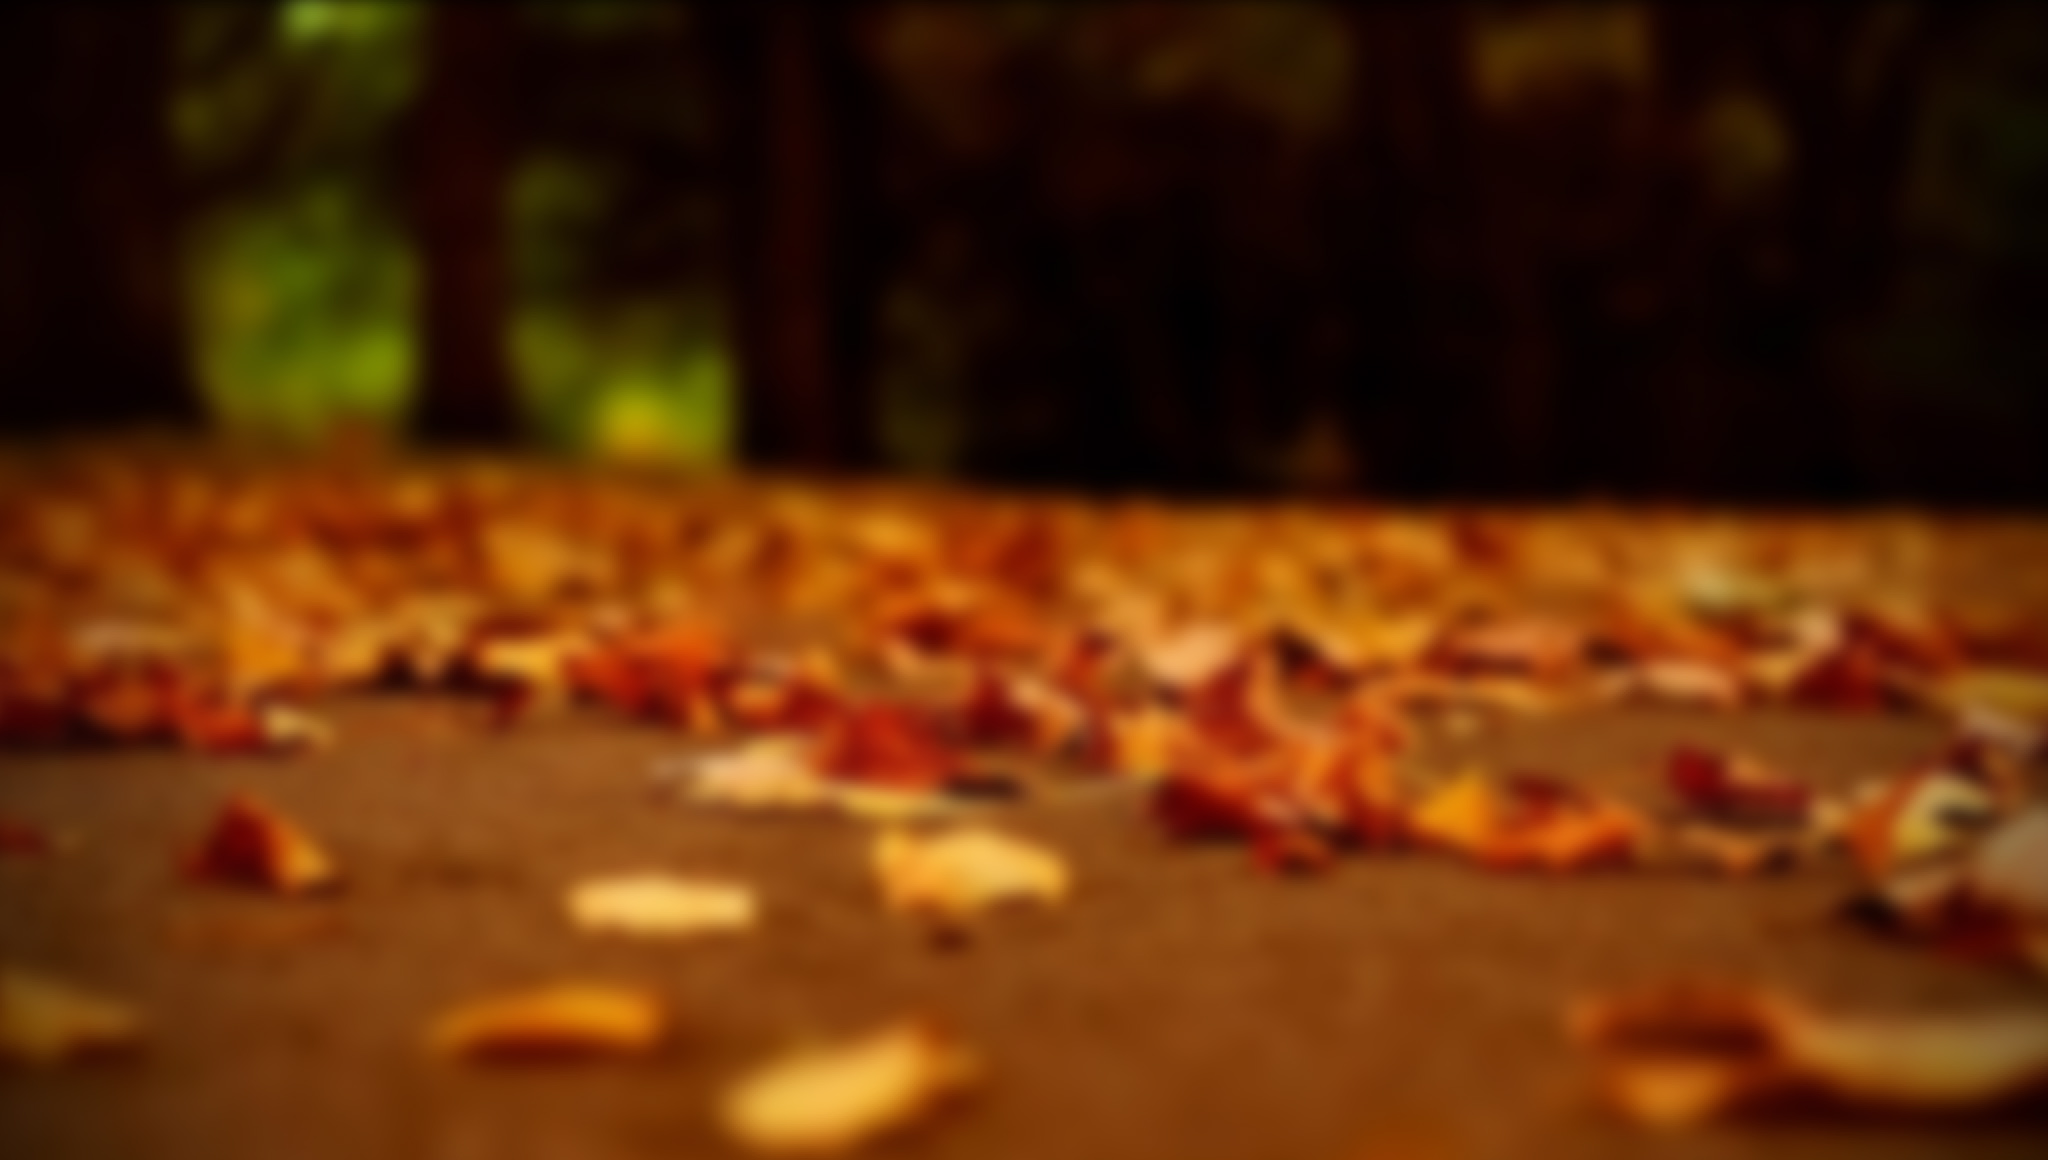
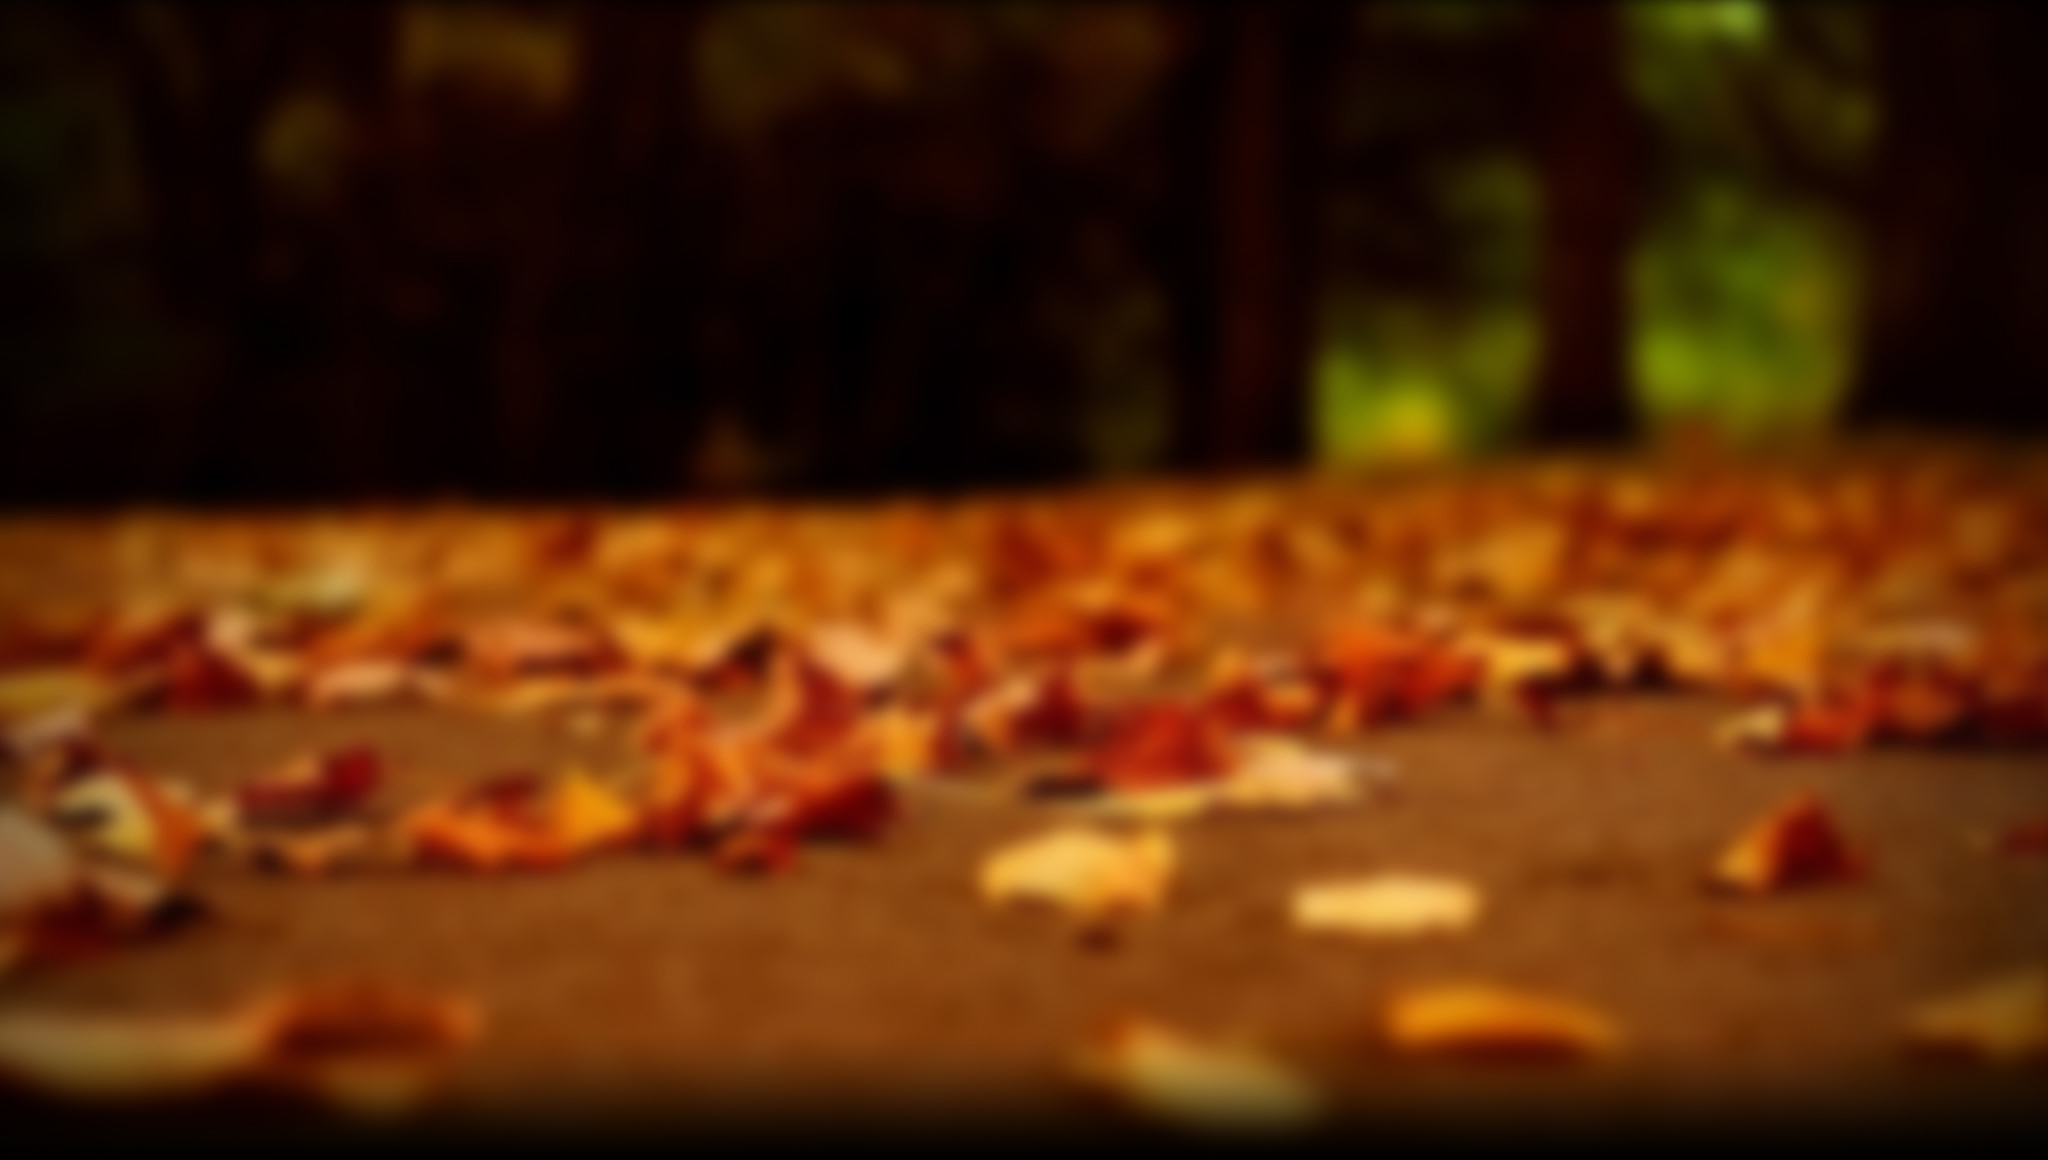
Added background image support for large monitors

diff --git a/project/static/css/main.css b/project/static/css/main.css
@@ -385,3 +385,8 @@ h1.billing-title {
     line-height: 1.3em;
   }
 }
+@media (min-width: 2048px) {
+  body, .jumbotron.main {
+    background-image: url(/static/images/leaves-tileable.jpg);
+  }
+}
